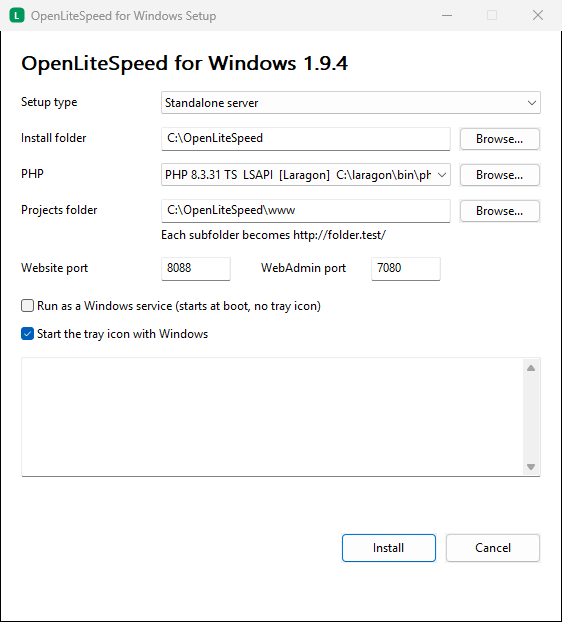
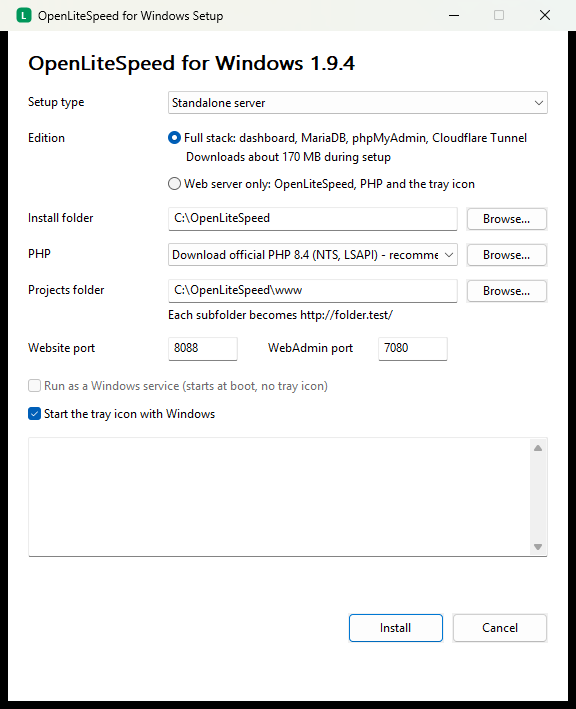
Prepare release 1.9.4-win.9 with the dashboard and the full stack edition
README: dashboard, editions, local sites, putting a site online, databases and trusted HTTPS, with screenshots. Third-party notices list the WebView2 loader and the programs the full stack edition downloads.

Changed region(s): [[0.0, 0.0, 1.0, 1.0], [0.9377, 0.0, 0.968, 0.0305]]

diff --git a/README.md b/README.md
@@ -2,20 +2,30 @@
 
 Website: [openlitespeed.dev/windows](https://openlitespeed.dev/windows/)
 
-A native Windows build of the [OpenLiteSpeed](https://openlitespeed.org) web server 1.9.4. It runs on Windows 10, Windows 11 and Windows Server without WSL, Docker or a virtual machine, serves PHP through LSAPI or FastCGI and installs on its own or inside Laragon and XAMPP. Free and open source under GPL-3.0.
+A native Windows build of the [OpenLiteSpeed](https://openlitespeed.org) web server 1.9.4. It runs on Windows 10, Windows 11 and Windows Server without WSL, Docker or a virtual machine, serves PHP through LSAPI or FastCGI and installs on its own or inside Laragon and XAMPP. The full stack edition adds a dashboard, MariaDB, phpMyAdmin and Cloudflare Tunnel, so a site on your computer can go online even behind a local IP. Free and open source under GPL-3.0.
 
-![OpenLiteSpeed WebAdmin console running on Windows](docs/dashboard.png)
+<picture>
+  <source media="(prefers-color-scheme: dark)" srcset="docs/panel-dark.png">
+  <img src="docs/panel-light.png" width="880" alt="OpenLiteSpeed for Windows dashboard with the web server, MariaDB, Cloudflare Tunnel, PHP and the local sites">
+</picture>
 
 ## Features
 
 - Native Win32 program built with Visual C++, with a graphical installer, a tray app and a Windows service
+- Two editions in one installer: the web server only, or the full stack with a dashboard, MariaDB, phpMyAdmin and Cloudflare Tunnel
+- Dashboard: one window to start and stop the services, create sites, switch PHP, turn on trusted HTTPS and put sites online
+- Put a local site online with Cloudflare Tunnel: a public https address for a site on your computer, with no port forwarding and no public IP. Your own domain works with a tunnel token.
+- MariaDB 11.8 and phpMyAdmin 5.2 on 127.0.0.1 only, with a generated root password. Every new WordPress site gets its own database and user.
 - Uses every CPU core: up to 32 HTTP worker processes on the same ports, restarted automatically after a crash, with zero downtime reload
 - PHP 8.2, 8.3, 8.4 and 8.5 through LSAPI (`lsphp.exe` for Windows is included) or FastCGI (`php-cgi.exe`)
 - Finds installed PHP versions, Laragon and XAMPP and configures itself for them
 - Imports Apache sites from `httpd.conf`: virtual hosts, SSL certificates, redirects, aliases, proxies, CGI, access rules and password protection, including the rules in `.htaccess` files
 - CGI programs: `.exe`, `.bat` and `.cmd` files and scripts with a `#!` line such as Perl or Python, each in its own job object with a restricted token
 - Node.js and Python (WSGI) applications, started and restarted by the server. Node.js apps run unchanged through [openlitespeed-node](https://github.com/NeuralFoundry/openlitespeed-node), WebSockets included, see [docs/APPS.md](docs/APPS.md)
-- Local development sites: every folder in the projects folder becomes `http://folder.test/`
+- Local development sites: every folder in the projects folder becomes `http://folder.test/`. New sites, optionally with WordPress, from the tray or the dashboard
+- Trusted HTTPS for local sites: a certificate authority made on your computer that can only sign `.test`, `.localhost` and `.internal` names and the computer's own address
+- Proxy sites for apps that run on a local port, such as `api.test` for an app on `127.0.0.1:3000`
+- Signed updates: the tray downloads a new release, checks its signature and installs it when you confirm
 - HTTP/2, HTTP/3 (QUIC), TLS 1.3, Brotli, LSCache and the WebAdmin console
 - Free HTTPS certificates from Let's Encrypt, requested and renewed automatically by a built-in ACME client, see [docs/ACME.md](docs/ACME.md)
 - Built-in modules: LSCache, upload progress, request body parsing and Lua scripting with LuaJIT, see [docs/MODULES.md](docs/MODULES.md)
@@ -66,9 +76,18 @@ Latency, memory, the full setup and the raw data are in [docs/BENCHMARKS.md](doc
 
 ## Installation
 
-Download `OpenLiteSpeed-1.9.4-win64-setup.exe` from [Releases](https://github.com/NeuralFoundry/openlitespeed-windows/releases/latest) and run it. Setup shows the PHP versions it found and suggests the setup type.
+Download `OpenLiteSpeed-1.9.4-win64-setup.exe` from [Releases](https://github.com/NeuralFoundry/openlitespeed-windows/releases/latest) and run it. Setup shows the PHP versions it found, suggests the setup type and asks for the edition.
 
-<img src="docs/setup.png" width="562" alt="OpenLiteSpeed for Windows setup with the detected PHP version">
+<img src="docs/setup.png" width="576" alt="OpenLiteSpeed for Windows setup with the edition choice and the PHP version">
+
+| Edition | Includes |
+|---|---|
+| Full stack | OpenLiteSpeed, PHP, the tray app, the dashboard, MariaDB, phpMyAdmin and Cloudflare Tunnel. Setup downloads about 170 MB and checks every file against a pinned SHA-256. |
+| Web server only | OpenLiteSpeed, PHP and the tray app with new sites, trusted HTTPS, PHP switching, imports and updates |
+
+Running setup again switches the edition. Switching to the web server only keeps your databases. The full stack edition runs with the tray app, so the Windows service option is for the web server only edition.
+
+Setup limits the install folder to your account, administrators and the system, so other users of the computer cannot change the programs or the configuration.
 
 | Setup type | Install folder | Projects folder | Started by |
 |---|---|---|---|
@@ -78,15 +97,18 @@ Download `OpenLiteSpeed-1.9.4-win64-setup.exe` from [Releases](https://github.co
 
 The website answers on port 80, or 8088 when port 80 is in use. WebAdmin is at `https://localhost:7080/` with the user `admin` and the password shown at the end of setup. Running setup again on an existing installation upgrades it and keeps the configuration.
 
+<img src="docs/webadmin.png" width="880" alt="OpenLiteSpeed WebAdmin console running on Windows">
+
 Unattended installation:
 
 ```bat
-OpenLiteSpeed-1.9.4-win64-setup.exe --silent --mode standalone --download-php 8.4 --service
+OpenLiteSpeed-1.9.4-win64-setup.exe --silent --mode standalone --download-php 8.4 --edition full
 ```
 
 | Option | Description |
 |---|---|
 | `--mode standalone\|laragon\|xampp` | Setup type, detected when omitted |
+| `--edition server\|full` | Edition, `server` for a new installation and the current one for an upgrade when omitted. `--service` needs `server` |
 | `--php <folder>` / `--download-php 8.2\|8.3\|8.4\|8.5` | PHP to use |
 | `--dir <folder>` / `--www <folder>` | Install folder / projects folder |
 | `--port <n>` / `--admin-port <n>` | Website and WebAdmin ports |
@@ -96,10 +118,63 @@ OpenLiteSpeed-1.9.4-win64-setup.exe --silent --mode standalone --download-php 8.
 The same files are available as a zip with `install.ps1` for scripted deployments:
 
 ```powershell
-powershell -ExecutionPolicy Bypass -File install.ps1 -Mode standalone -DownloadPhp 8.4 -Service
+powershell -ExecutionPolicy Bypass -File install.ps1 -Mode standalone -DownloadPhp 8.4 -Edition full
 ```
 
-To uninstall, use **Settings > Apps** or run `uninstall.exe --uninstall --silent` in the install folder.
+To uninstall, use **Settings > Apps** or run `uninstall.exe --uninstall --silent` in the install folder. The projects folder and the `data` folder with the databases stay.
+
+## Dashboard
+
+The full stack edition opens the dashboard from the Start menu, or with a double click on the tray icon. It is a desktop window, not a web page, so it does not listen on a port. It shows:
+
+- the web server, MariaDB and Cloudflare Tunnel with their ports, each with a switch to start or stop it
+- every site with its local address, and a switch to put it online
+- the PHP version and trusted HTTPS, both changed with one click
+- **New site**, **New proxy site**, the projects folder, WebAdmin and the error log
+
+The dashboard needs the Microsoft Edge WebView2 Runtime, which comes with Windows 11 and current Windows 10.
+
+## Local sites
+
+Every folder in the projects folder is a site at `http://folder.test/`. **New site** in the dashboard or the tray creates the folder. With **Install WordPress** it also downloads the latest WordPress. When MariaDB is installed it creates a database and a user for the site and fills in `wp-config.php`, so the WordPress setup only asks for the site title and an admin account. The WordPress installer opens from this computer only, so nobody else on the network can finish it first.
+
+**New proxy site** gives an app that listens on a local port its own name, for example `app.test` for a Node.js or Vite dev server on port 5173. WebSockets are passed through. A proxy site answers this computer only, like the app behind it.
+
+<picture>
+  <source media="(prefers-color-scheme: dark)" srcset="docs/panel-site-dark.png">
+  <img src="docs/panel-site-light.png" width="420" alt="New site dialog with the site name and the Install WordPress option">
+</picture>
+<picture>
+  <source media="(prefers-color-scheme: dark)" srcset="docs/panel-proxy-dark.png">
+  <img src="docs/panel-proxy-light.png" width="420" alt="New proxy site dialog with the site name and the port of the app">
+</picture>
+
+## Putting a site online
+
+Turn on **Online** next to a site in the dashboard, or run `openlitespeed --tunnel start <site>`. Cloudflare gives the site a random `https://*.trycloudflare.com` address that anyone can open until you turn it off. It works behind NAT, a router or a local IP because the connection goes out from your computer, and nothing is opened in the firewall. Visitors keep their own IP address in the logs and in PHP. The public address is shown under the local one, with **Copy** next to it.
+
+For your own domain, create a tunnel in Cloudflare Zero Trust, point its public hostname at `http://127.0.0.1` on the website port with the site name as the HTTP host header, and paste the tunnel token in the dashboard under **Use your own domain**. The token is stored encrypted for your Windows account.
+
+<picture>
+  <source media="(prefers-color-scheme: dark)" srcset="docs/panel-share-dark.png">
+  <img src="docs/panel-share-light.png" width="420" alt="Dialog to share a local site online through Cloudflare">
+</picture>
+<picture>
+  <source media="(prefers-color-scheme: dark)" srcset="docs/panel-token-dark.png">
+  <img src="docs/panel-token-light.png" width="420" alt="Dialog to connect your own domain with a Cloudflare tunnel token">
+</picture>
+
+Only sites from the projects folder and proxy sites can go online. Sharing a proxy site connects the tunnel straight to its app. phpMyAdmin and WebAdmin answer this computer only, and a tunnel does not start unless the server can tell its visitors apart from this computer.
+
+## Databases
+
+MariaDB listens on `127.0.0.1` only and runs under your account, never as administrator. Setup downloads it, and the tray creates the databases the first time it starts. The root password is generated then and stored in `data\client.cnf`, readable by your account and administrators only. `SELECT ... INTO OUTFILE` and `LOAD DATA` work only in `data\files`. **Copy password** in the dashboard or the tray puts it on the clipboard without adding it to the clipboard history. phpMyAdmin is at `http://phpmyadmin.test/`, for this computer only.
+
+A WordPress site created from the tray or the dashboard gets its own database and user, and `wp-config.php` is filled in.
+
+## Trusted HTTPS
+
+**Trusted HTTPS** in the dashboard or the tray, or `openlitespeed --dev-https on`, creates a certificate authority on your computer, asks Windows to trust it for your account and serves every local site on `https://name.test/`. The authority is limited by name constraints to `.test`, `.localhost` and `.internal` names and to `127.0.0.1` and `::1`, so it cannot sign a certificate for any other site. Turning it off removes it from the Windows trust store.
 
 ## PHP
 
@@ -107,7 +182,7 @@ To uninstall, use **Settings > Apps** or run `uninstall.exe --uninstall --silent
 
 <img src="docs/phpinfo.png" width="640" alt="phpinfo of PHP 8.4 on Windows with Server API LiteSpeed">
 
-Switch the PHP version from the tray menu or with `openlitespeed --set-php <folder>`.
+Switch the PHP version from the dashboard, the tray menu or with `openlitespeed --set-php <folder>`.
 
 ## Moving from Apache
 
@@ -151,10 +226,17 @@ Run the commands in the install folder as `bin\openlitespeed.exe`.
 | `openlitespeed --acme-install [--email <address>]` | Turn on automatic Let's Encrypt certificates |
 | `openlitespeed --modsec-install [--detection-only]` / `--modsec-install --remove` | Turn the ModSecurity firewall with the OWASP Core Rule Set on or off |
 | `openlitespeed --dev-sites <folder> [tld]` | Create a site for every subfolder of a folder |
+| `openlitespeed --new-site <name> [--wordpress]` | Create a site in the projects folder, with WordPress and its database if asked |
+| `openlitespeed --proxy add <name> <port>` / `remove <name>` / `list` | Add or remove a proxy site for an app on a local port |
+| `openlitespeed --dev-https on [port]\|off\|status` | Trusted HTTPS for the local sites |
 | `openlitespeed --dev-hosts` / `--dev-hosts-clear` | Add or remove the site names in the hosts file |
+| `openlitespeed --db install\|fetch\|start\|stop\|status` | Install, download only, start or stop MariaDB and phpMyAdmin |
+| `openlitespeed --tunnel start <site>` / `stop <site>` / `stop --all` / `status` | Put a site online with Cloudflare Tunnel or take it offline |
+| `openlitespeed --tunnel token` / `run` / `run-stop` / `token clear` | Save a tunnel token from standard input, connect or disconnect your own domain, forget the token |
+| `openlitespeed --status` | Server, PHP, sites, database and tunnels as JSON |
 | `openlitespeed --admin-password admin\conf\htpasswd <password>` | Set the WebAdmin password |
 
-The tray app starts, stops and reloads the server, opens the sites, WebAdmin and logs, switches the PHP version and imports Apache sites (**Sites > Import Apache sites**). Once a day it checks GitHub for a new release and shows a notice when one is out; `check=0` under `[update]` in `conf\olstray.ini` turns this off.
+The tray app starts, stops and reloads the server, opens the sites, WebAdmin and logs, creates sites and proxy sites, turns trusted HTTPS on and off, switches the PHP version and imports Apache and nginx sites. In the full stack edition it also opens the dashboard and controls MariaDB. Once a day it checks GitHub for a new release; **Update** downloads it, checks the signature and the checksum and runs the new setup. `check=0` under `[update]` in `conf\olstray.ini` turns the check off.
 
 ## Building from source
 

diff --git a/docs/BUILD.md b/docs/BUILD.md
@@ -31,10 +31,10 @@ powershell -ExecutionPolicy Bypass -File win\package.ps1
 
 | Step | Result |
 |---|---|
-| `fetch-deps.ps1` | BoringSSL, Brotli, Expat, PCRE2, zlib, udns, libbcrypt, libmaxminddb, the IP2Location C library, LuaJIT, ModSecurity, yajl, libxml2 and the OWASP Core Rule Set at pinned commits in `.deps\`. BoringSSL gets the OpenLiteSpeed TLS patch from `win\deps\patches\`. |
+| `fetch-deps.ps1` | BoringSSL, Brotli, Expat, PCRE2, zlib, udns, libbcrypt, libmaxminddb, the IP2Location C library, LuaJIT, ModSecurity, yajl, libxml2 and the OWASP Core Rule Set at pinned commits in `.deps\`. BoringSSL gets the OpenLiteSpeed TLS patch from `win\deps\patches\`. The Microsoft WebView2 SDK for the dashboard comes from NuGet, checked against a pinned SHA-256. |
 | `build-deps.cmd` | Static libraries in `.deps\prefix\` |
 | `prepare.cmd` | Links the QUIC and HPACK sources from the `lsquic` submodule into `src\` |
-| `build.cmd` | `build\openlitespeed.exe`, `olstray.exe`, `setup.exe` and `olspack.exe` |
+| `build.cmd` | `build\openlitespeed.exe`, `olstray.exe`, `olspanel.exe`, `setup.exe` and `olspack.exe` |
 | `fetch-php.ps1` | PHP development packs for PHP 8.2 to 8.5, checked against the SHA-256 sums published by windows.php.net, and the LiteSpeed SAPI sources from the matching php-src tags |
 | `build-all.ps1` | `build\lsphp-<version>-<ts\|nts>\lsphp.exe` for every PHP version and build type |
 | `package.ps1` | `build\OpenLiteSpeed-<version>-win64-setup.exe` and a zip of the same files |
@@ -68,6 +68,7 @@ C:\ols-dev\bin\openlitespeed.exe -d
 | `win\lsphp\` | Windows support for the PHP LiteSpeed SAPI and its build scripts |
 | `win\setup\` | `setup.exe` installer and `olspack.exe` packer |
 | `win\tray\` | Tray application |
+| `win\panel\` | Dashboard, a WebView2 window with the page in `panel.html` |
 | `win\common\` | PHP, Laragon and XAMPP detection shared by the installer and the tray |
 | `win\package\` | Default configuration and `install.ps1` |
 | `win\deps\` | Dependency fetch and build scripts |
